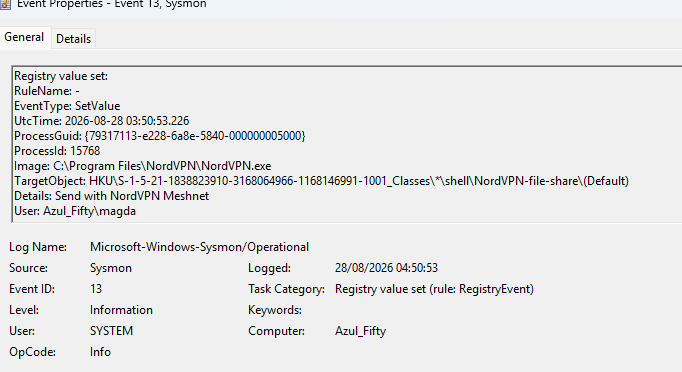
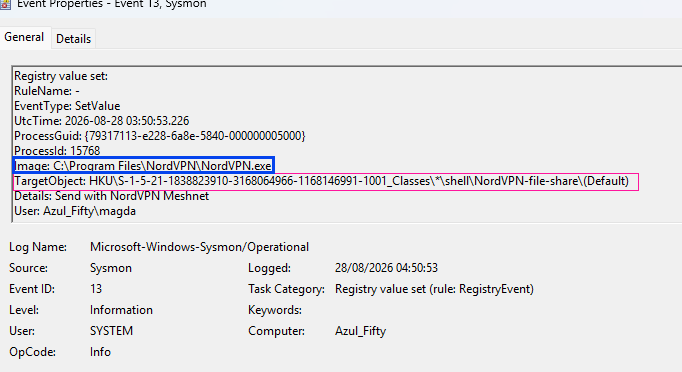
add Event id 13 analysis

Changed region(s): [[0.0, 0.414, 0.4311, 0.4731]]

diff --git a/1.detections/_evidences/registry-modification/registry-modification-multi-event-analysis.md b/1.detections/_evidences/registry-modification/registry-modification-multi-event-analysis.md
@@ -3,17 +3,17 @@
 
 **Summary**
 
-Four Sysmon Event ID 13 events were observed on the analyst workstation. Although all four originate from legitimate software (NordVPN, McAfee, Windows Photos), they demonstrate three distinct categories of registry modification:
+Four Sysmon Event ID 13 events were observed during practical Sysmon logging exercises. Although all four originate from legitimate software (NordVPN, McAfee, Windows Photos), they demonstrate three distinct categories of registry modification:
 
 * Shell extensions (NordVPN)
 * Service configuration changes (McAfee)
 * AppCompatFlags compatibility metadata (`svchost.exe`)
 
-These artefacts are extremely valuable for SOC analysis because they closely resemble attacker techniques such as persistence, service hijacking, execution via shell extensions, and registry‑based evasion. This combined evidence shows how benign activity can mimic malicious behaviour — a critical skill for SOC analysts.
+These artefacts are extremely valuable for SOC analysis because they closely resemble attacker techniques such as persistence, service hijacking, execution via shell extensions, and registry‑based evasion. This combined evidence shows how benign activity can mimic malicious behaviour.
 
 ---
 
-### Event 1 NordVPN Shell Command Extension (Directory Context Menu)
+### Event 1: **NordVPN Shell Command Extension (Directory Context Menu)**
 
 **Log Artefact**
 
@@ -27,7 +27,7 @@ These artefacts are extremely valuable for SOC analysis because they closely res
 | **New Value** | `"C:\Program Files\NordVPN\NordVPN.exe" -m --send "Incorrect function."` |
 | **User** | `Azul_Fifty\magda` |
 
-**SOC Interpretation**
+**Interpretation**
 
 This modification adds a right‑click command to the Windows Explorer directory context menu. Malware frequently abuses identical registry paths to:
 
@@ -41,7 +41,7 @@ Although legitimate, the pattern is identical to malicious shell extension techn
 
 ---
 
-### Event 2 — NordVPN Meshnet Shell Extension (File Context Menu)
+### Event 2 : **NordVPN Meshnet Shell Extension (File Context Menu)**
 
 **Log Artefact**
 
@@ -55,7 +55,7 @@ Although legitimate, the pattern is identical to malicious shell extension techn
 | **New Value** | `Send with NordVPN Meshnet` |
 | **User** | `Azul_Fifty\magda` |
 
-**SOC Interpretation**
+**Interpretation**
 
 This entry adds a file‑level context‑menu option. The `*\shell\...` path is commonly abused by malware to:
 
@@ -68,7 +68,7 @@ Again, legitimate — but SOC‑relevant.
 ![event2](./screenshots/EVENT2.png)
 ---
 
-### Event 3 — McAfee Service ImagePath Modification (SYSTEM‑Level Service Change)
+### Event 3 : **McAfee Service ImagePath Modification (SYSTEM‑Level Service Change)**
 
 **Log Artefact**
 
@@ -83,7 +83,7 @@ Again, legitimate — but SOC‑relevant.
 | **User** | `NT AUTHORITY\SYSTEM` |
 | **RuleName** | `T1031, T1050` |
 
-**SOC Interpretation**
+**Interpretation**
 
 This is high‑value evidence. Modifying `ImagePath` under `HKLM\System\CurrentControlSet\Services\...` is a recognised attacker technique:
 
@@ -102,7 +102,7 @@ Although McAfee is legitimate, the behaviour is identical to malicious service h
 ![event3](./screenshots/EVENT3.png)
 ---
 
-### Event 4 : AppCompatFlags Modification (svchost.exe - SYSTEM)
+### Event 4 : **AppCompatFlags Modification (svchost.exe - SYSTEM)**
 
 **Log Artefact**
 
@@ -117,7 +117,7 @@ Although McAfee is legitimate, the behaviour is identical to malicious service h
 | **User** | `NT AUTHORITY\SYSTEM` |
 | **RuleName** | `InvDB` |
 
-**SOC Interpretation**
+**Interpretation**
 
 This event shows Windows updating compatibility metadata for a UWP application. The `AppCompatFlags` keys are used to:
 
